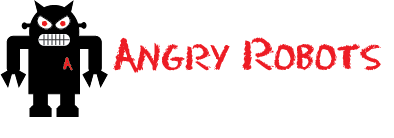
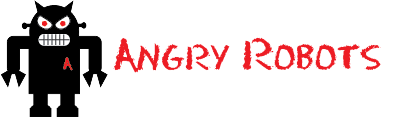
transparent

diff --git a/Billing.html b/Billing.html
@@ -7,7 +7,7 @@
 	</head>
 	<header>
 		<div id="HeaderBox">
-			<h1><a href="ABCTOYS_HOME.html"><img src="iconsButtons/EvilRobotsLogo.png"/></a></h1>
+			<h1><a href="ABCTOYS_HOME.html"><img src="iconsButtons/angryrobots.png"/></a></h1>
 		</div>
 		<div id="HeaderBox">	<br>
   				<div id="search">
@@ -27,11 +27,11 @@
 		<fieldset>
 		<legend>Payment Type</legend>
 			<ol>
-				<li>	
+				<li>
 					<label for="Payment Type">Card Type:</label>
-					<input type="radio" name="visa" value="visa"><img src="images/visa.png" width="50" height="30">
-					<input type="radio" name="mastercard" value="mastercard"><img src="images/mastercard.png" width="50" height="30">
-					<input type="radio" name="amex" value="amex"><img src="images/amex.png" width="50" height="30">
+					<input type="radio" name="card" value="visa" />Visa<br /><img src="images/visa.png" width="50" height="30">
+                    <input type="radio" name="card" value="mastercars" />Mastercard<br /><img src="images/mastercard.png" width="50" height="30">
+                    <input type="radio" name="card" value="amex" />Amex<br /><img src="images/amex.png" width="50" height="30">		
 				</li>
 				<li>
 					<label for="name">Name:</label>
@@ -58,22 +58,19 @@
 						<label for="email">Email:</label>
 						<input id="email" email="email" type"email" placeholder="example@domain.com" required/>
 					</li>
-					
-					
 					<li>
 						<label for="telephone">Telephone:</label>
 						<input id="telephone" telephone="telephone" type"number" placeholder="(xxx) xxx-xxxx" required/>
 					</li>
 					<li>
 						<label for=address>Address:</label>
-						<textarea id="address" name="address" rows="3" required></textarea><br><br>
+						<textarea id="address" name="address" rows="3" required></textarea>
 					</li>
-					
 					<li>
 						<label for="province">Province:</label>
 						<select id="province">
+						<option value="BC">British Columbia</option>	
 						<option value="Alberta">Alberta</option>
-						<option value="BC">British Columbia</option>
 						<option value="Manitoba">Manitoba</option>
 						<option value="New Brunswick">New Brunswick</option>
 						<option value="Newfoundland">Newfoundland</option>
@@ -85,9 +82,8 @@
 						<option value="Northwest Territories">Northwest Territories</option>
 						<option value="Nunavut">Nunavut</option>
 						<option value="Yukon">Yukon</option>
-						</select><br><br>
+						</select>
 					</li>
-				
 					<li>
 						<label for=postal>Postal Code:</label>
 						<input id="postal" postal="postal" type"text"  required/><br><br>
@@ -96,13 +92,13 @@
 					<li>
 						<label for=country>Country: </label>	
 						<select name="country"><option value="Canada">Canada</option><option value="United States">United States</option>
-						</select><br><br>
+						</select>
 					</li>
 				</ol>	
 		</fieldset>	
 		
 		<fieldset>
-			<button type=purchase>Purchase</button>
+			<button type="purchase">Purchase</button>
 		</fieldset>
 	</form>	
 </body>

diff --git a/billing.css b/billing.css
@@ -6,7 +6,6 @@
 }
 
 #cart{
-	float:left
 	margin: 20px 0px;
 	}
 	
@@ -42,7 +41,8 @@ header {
 
 html, body, h1, form, fieldset, legend, ol, li {
 	margin: 40;
-	padding: 0;	
+	padding: 0;
+	list-style-type: none;	
 }
 
 h1 {
@@ -59,7 +59,6 @@ form#payment legend {
 	font-family: chalkduster;
 	font-size: 16px;
 	font-weight: bold;
-	padding-bottom: 20px;
 	text-shadow: 0 1px 1px #10128F;
 	border-style:dotted;
 	border-width: 2px;
@@ -70,37 +69,28 @@ form#payment fieldset{
 }
 
 form#payment textarea {
+	float: right;
 	background: #ffffff;
-	border: dotted;
+	border: solid;
 	-moz-border-radius: 3px;
 	-webkit-border-radius: 3px;
 	-khtml-border-radius: 3px;
 	border-radius: 3px;
 	font: italic 13px;
 	outline: none;
-	padding: 5px;
+
 	width: 200px;
 }
 
 form#payment select{
 	float: right;
 	width: 200px;
+
 }
 
+/*form#payment input[type=radio] {
 
-/*form#payment input    {
-width:375px;
-display:block;
-border: 1px solid #999;
-height: 25px;
--webkit-box-shadow: 0px 0px 8px rgba(0, 0, 0, 0.3);
--moz-box-shadow: 0px 0px 8px rgba(0, 0, 0, 0.3);
-box-shadow: 0px 0px 8px rgba(0, 0, 0, 0.3);
 }*/
-
-form#payment input[type=radio] {
-	margin-right: 5px;
-}
 
 form#payment input {
 	float: right;

diff --git a/AboutUs.css b/AboutUs.css
@@ -44,7 +44,7 @@ body{
 	float:left;
 	width: 700px;
 	margin: 0 50px;
-	/*background: url("images/backdrop.jpeg");*/
+	
 }
 
 
